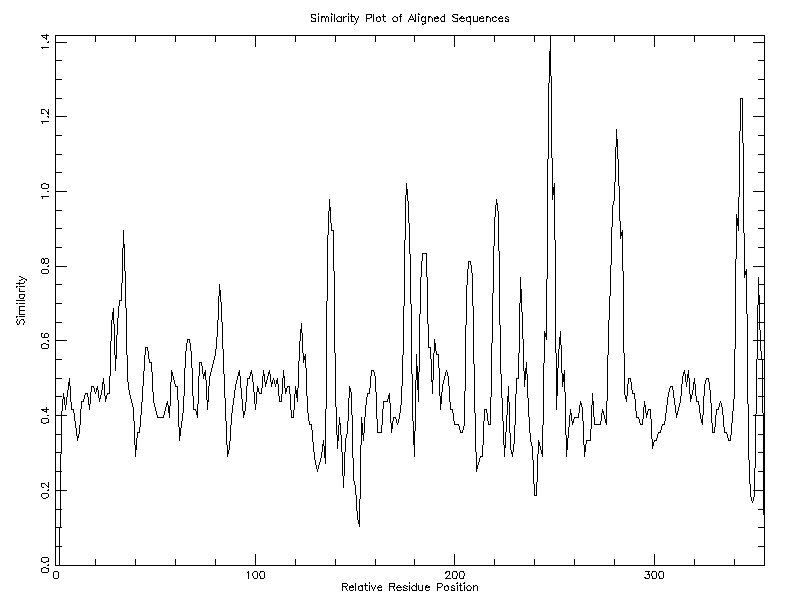
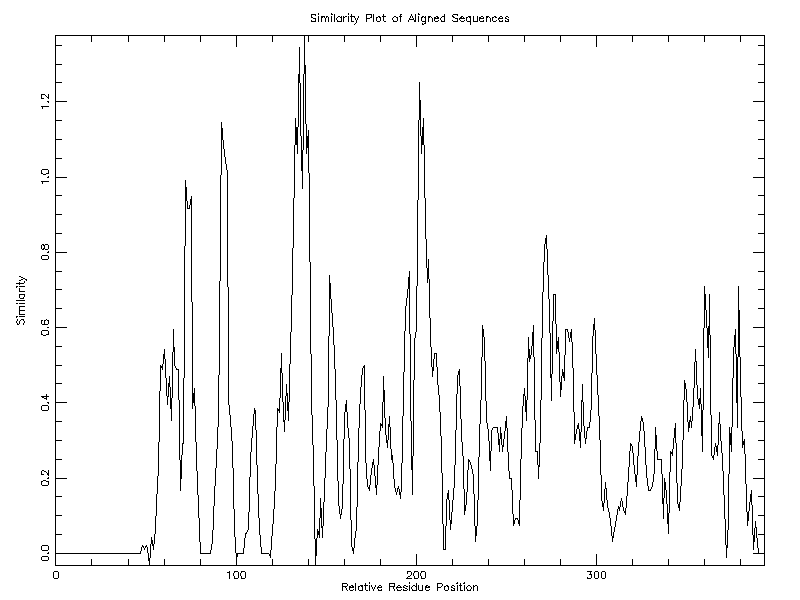
motif works for test

diff --git a/motif.js b/motif.js
@@ -1,10 +1,10 @@
-// conservation analysis
-document.getElementById("btn_conservation").addEventListener("click", async () => {
+// motif analysis
+document.getElementById("btn_motif").addEventListener("click", async () => {
 
     const selected = getSelected(); // get selected sequences
 
     //post selected data to get results
-    const response = await fetch("conservation.php", {
+    const response = await fetch("motif.php", {
         method: "POST",
         headers: {
             "Content-Type": "application/json"
@@ -17,10 +17,10 @@ document.getElementById("btn_conservation").addEventListener("click", async () =
 
     // show outputs
     //document.getElementById("conservation_alignment").textContent = result.alignment;
-    document.getElementById("conservation_image").src = result.png_filename;
-    fetch(result.aln_filename)
+    //document.getElementById("conservation_image").src = result.png_filename;
+    fetch(result.motif_filename)
     .then(res => res.text())
     .then(text => {
-        document.getElementById("conservation_alignment").textContent = text;
+        document.getElementById("motif_result").textContent = text;
     });
 });

diff --git a/selection.js b/selection.js
@@ -14,6 +14,6 @@ function getSelected() {
     return selectedData;
 }
 
-document.getElementById("btn_select").addEventListener("click", function () {
-    getSelected();
-});
+//document.getElementById("btn_select").addEventListener("click", function () {
+//    getSelected();
+//});

diff --git a/motif.php b/motif.php
@@ -1,5 +1,5 @@
 <?php
-// this php run conservation analysis, return results in json and update MySQL `results`
+// this php run motif analysis, return results in json and update MySQL `results`
 session_start();
 require_once 'login.php';
 // query and return json
@@ -28,20 +28,15 @@ foreach ($data as $item) {
 file_put_contents("$prefix.fasta", $fasta);
 
 
-// 2. run Clustal Omega, force rewrite
-$aln_filename = "$prefix.aln";
-exec("clustalo -i $prefix.fasta -o $aln_filename --force", $out1, $status1);
+// 2. run patmatmotifs
+$motif_filename = "$prefix.patmatmotifs";
+exec("patmatmotifs -sequence $prefix.fasta -outfile $motif_filename", $out1, $status1);
 
-
-// 3. run plotcon
-exec("plotcon -sequences $aln_filename -graph png -goutfile $prefix -winsize 4", $out2, $status2);
-$png_filename = "$prefix.1.png";
 
 // 4. update database
-$conservation_json = json_encode([
+$motif_json = json_encode([
     "ids" => $ids,
-    "aln_filename" => $aln_filename,
-    "png_filename" => $png_filename
+    "motif_filename" => $motif_filename
 ]);
 try {
     $dsn = "mysql:host=$hostname;dbname=$database;charset=utf8mb4";
@@ -50,12 +45,12 @@ try {
 
      // insert search entry
     $stmt = $conn->prepare("
-    INSERT INTO results (search_id, conservation)
+    INSERT INTO results (search_id, motif)
     VALUES (?, ?)
     ON DUPLICATE KEY UPDATE
-    conservation = VALUES(conservation)
+    motif = VALUES(motif)
     ");
-    $stmt->execute([$search_id, $conservation_json]);
+    $stmt->execute([$search_id, $motif_json]);
 
     $stmt = null;
 } catch(PDOException $e) {
@@ -63,5 +58,5 @@ try {
 }
 
 // return json
-echo $conservation_json;
+echo $motif_json;
 ?>

diff --git a/org/query.php b/org/query.php
@@ -8,10 +8,6 @@ $user_id = $_SESSION['user_id'];
 $family = $_POST['family'];
 $taxonomy = $_POST['taxonomy'];
 
-$_SESSION['search_id'] = 1;
-echo file_get_contents("example_dataset.json");
-
-/*
 $cmd = "./run_query.sh $family $taxonomy";
 $output = shell_exec($cmd);
 
@@ -42,7 +38,6 @@ try {
 } catch(PDOException $e) {
           echo "<b><font color=\"red\">Connection failed</font></b>:<br/>" . $e->getMessage();
 }
- */
 
 /* fake data (replace later with shell_exec)
 $data = [
@@ -50,24 +45,24 @@ $data = [
         "id" => "XP_001",
         "name" => "glucose-6-phosphatase isoform 1",
         "length" => 357,
-        "sequence" => "MEEPQSDPSVEPPLSQETFSDLWKLLPEN"
+        "sequence" => "MEEPQSDPSVEPPLSQETFSDLWKLLPEN..."
     ],
     [
         "id" => "XP_002",
         "name" => "glucose-6-phosphatase isoform 2",
         "length" => 310,
-        "sequence" => "MSSGSSSSSSGSSGSGSAAAVVVVVVAAA"
+        "sequence" => "MSSGSSSSSSGSSGSGSAAAVVVVVVAAA..."
     ],
     [
         "id" => "XP_003",
         "name" => "glucose-6-phosphate translocase",
         "length" => 512,
-        "sequence" => "MKTVRQERLKSIVRILERSKEPVSGAQLAE"
+        "sequence" => "MKTVRQERLKSIVRILERSKEPVSGAQLAE..."
     ]
 ];
 
 echo json_encode($data);
- */
+*/
 
 /*
 echo json_encode([

diff --git a/query.php b/query.php
@@ -8,6 +8,10 @@ $user_id = $_SESSION['user_id'];
 $family = $_POST['family'];
 $taxonomy = $_POST['taxonomy'];
 
+$_SESSION['search_id'] = 1;
+echo file_get_contents("example_dataset.json");
+
+/*
 $cmd = "./run_query.sh $family $taxonomy";
 $output = shell_exec($cmd);
 
@@ -38,6 +42,7 @@ try {
 } catch(PDOException $e) {
           echo "<b><font color=\"red\">Connection failed</font></b>:<br/>" . $e->getMessage();
 }
+ */
 
 /* fake data (replace later with shell_exec)
 $data = [
@@ -45,24 +50,24 @@ $data = [
         "id" => "XP_001",
         "name" => "glucose-6-phosphatase isoform 1",
         "length" => 357,
-        "sequence" => "MEEPQSDPSVEPPLSQETFSDLWKLLPEN..."
+        "sequence" => "MEEPQSDPSVEPPLSQETFSDLWKLLPEN"
     ],
     [
         "id" => "XP_002",
         "name" => "glucose-6-phosphatase isoform 2",
         "length" => 310,
-        "sequence" => "MSSGSSSSSSGSSGSGSAAAVVVVVVAAA..."
+        "sequence" => "MSSGSSSSSSGSSGSGSAAAVVVVVVAAA"
     ],
     [
         "id" => "XP_003",
         "name" => "glucose-6-phosphate translocase",
         "length" => 512,
-        "sequence" => "MKTVRQERLKSIVRILERSKEPVSGAQLAE..."
+        "sequence" => "MKTVRQERLKSIVRILERSKEPVSGAQLAE"
     ]
 ];
 
 echo json_encode($data);
-*/
+ */
 
 /*
 echo json_encode([

diff --git a/search.php b/search.php
@@ -47,11 +47,15 @@ _USER;
 
 <p id="error_message"></p>
 
-<button id="btn_select">Get selected sequences:</button>
 
-<button id="btn_conservation">Run conservation analysis</button>
+<button id="btn_conservation">Run conservation analysis on selected sequences</button>
 <pre id="conservation_alignment"></pre>
 <img id="conservation_image" />
+
+
+<button id="btn_motif">Run motif analysis on selected sequence</button>
+<pre id="motif_result"></pre>
+
 
 <!--JS for query-->
 <script src="query.js"></script>
@@ -61,6 +65,9 @@ _USER;
 
 <!--JS for conservation analysis-->
 <script src="conservation.js"></script>
+
+<!--JS for motif analysis-->
+<script src="motif.js"></script>
 
 </body>
 </html>
